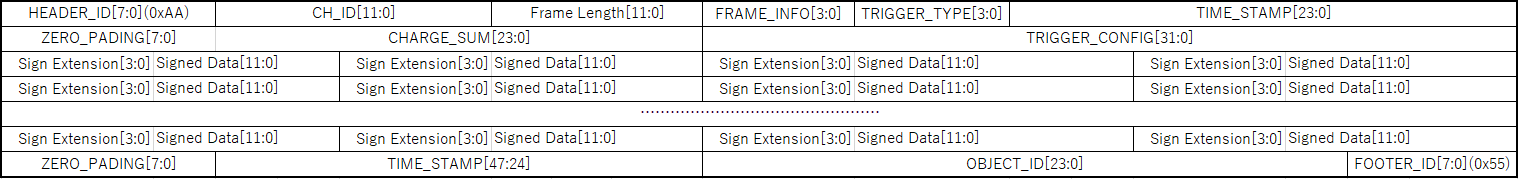
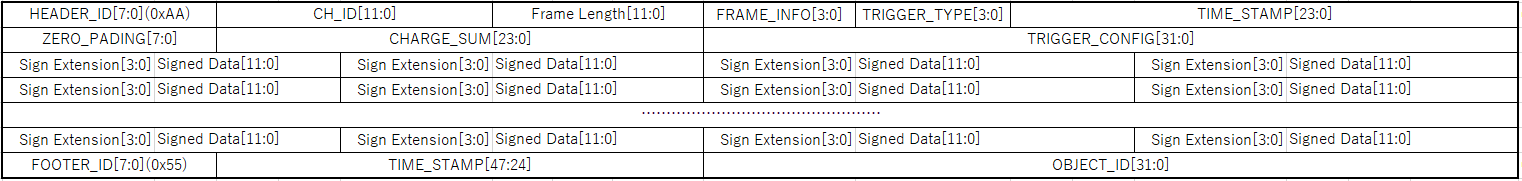
move FOOTER_ID to top of footer

Changed region(s): [[0.0, 0.0, 1.0, 1.0], [0.4025, 0.6145, 0.5883, 0.6425]]

diff --git a/proto_ip_code/dataframe_generator/dataframe_format.md b/proto_ip_code/dataframe_generator/dataframe_format.md
@@ -35,4 +35,4 @@ and in little-endian (**32bit word unit**)
 b'\x1f\x00\x10\xaa\x45\x23\x01\x10'
 ```
     
-Last Update: 2020/07/13
+Last Update: 2020/07/15
